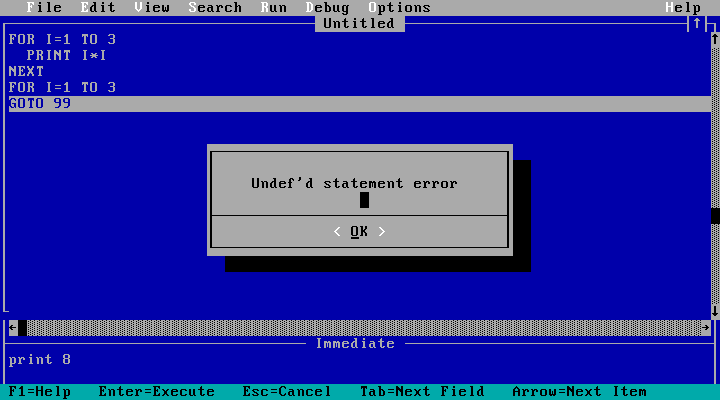
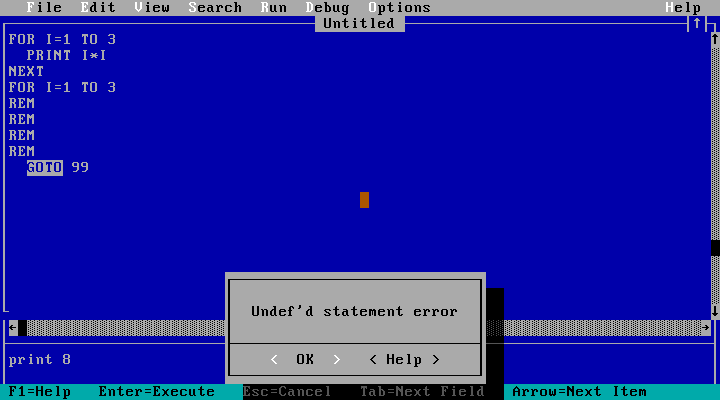
feat(x86): IDE message boxes as COW's, errors select their word

diff --git a/tools/x86ide_test.py b/tools/x86ide_test.py
@@ -166,13 +166,22 @@ def play() -> None:
     assert text()[:5] == ["FOR I=1 TO 3", "  PRINT I*I", "NEXT", "FOR I=1 TO 3", ""], text()
     assert look()[24].endswith("00005:001"), look()[24]
 
-    # A runtime error: the cursor on its line, the error in a box.
-    keys("goto 99\n")
+    # A runtime error: its statement's word selected, the error in a box,
+    # moved to the foot when it would cover that line (uiedit.asm).
+    keys("rem\n" * 4 + "  goto 99\n")
     press(f"0x{F5:x}")
     scr = look("error")
+    assert next(i for i, r in enumerate(scr) if "UNDEF'D" in r) == 19, scr
+    assert attrs(10)[2:8] == bytes([0x17, 0x71, 0x71, 0x71, 0x71, 0x17]), attrs(10)[:9]
     assert any("UNDEF'D STATEMENT ERROR" in r for r in scr) and scr[24].startswith(" F1=HELP   ENTER=EXECUTE"), scr
+    # QBasic's message box (msgbox.c): text +6 wide, OK and Help 8 wide, 3 apart.
+    row = next(r for r in scr if "< HELP >" in r)
+    assert row.ljust(80)[25:55] == "     <  OK  >   < HELP >      ", scr
+    press("tab", "enter")  # Help: nothing to show, the box stays
+    assert any("UNDEF'D STATEMENT ERROR" in r for r in look()), look()
+    press("tab")  # back to OK
     press("enter")
-    assert look()[24].endswith("00005:001"), look()[24]
+    assert look()[24].endswith("00009:003") and attrs(10)[3] == 0x17, (look()[24], attrs(10)[:9])
 
     # New: the unsaved text asks first; N, its button's letter, answers No.
     press(f"0x{ALT_F:x}", "n")
